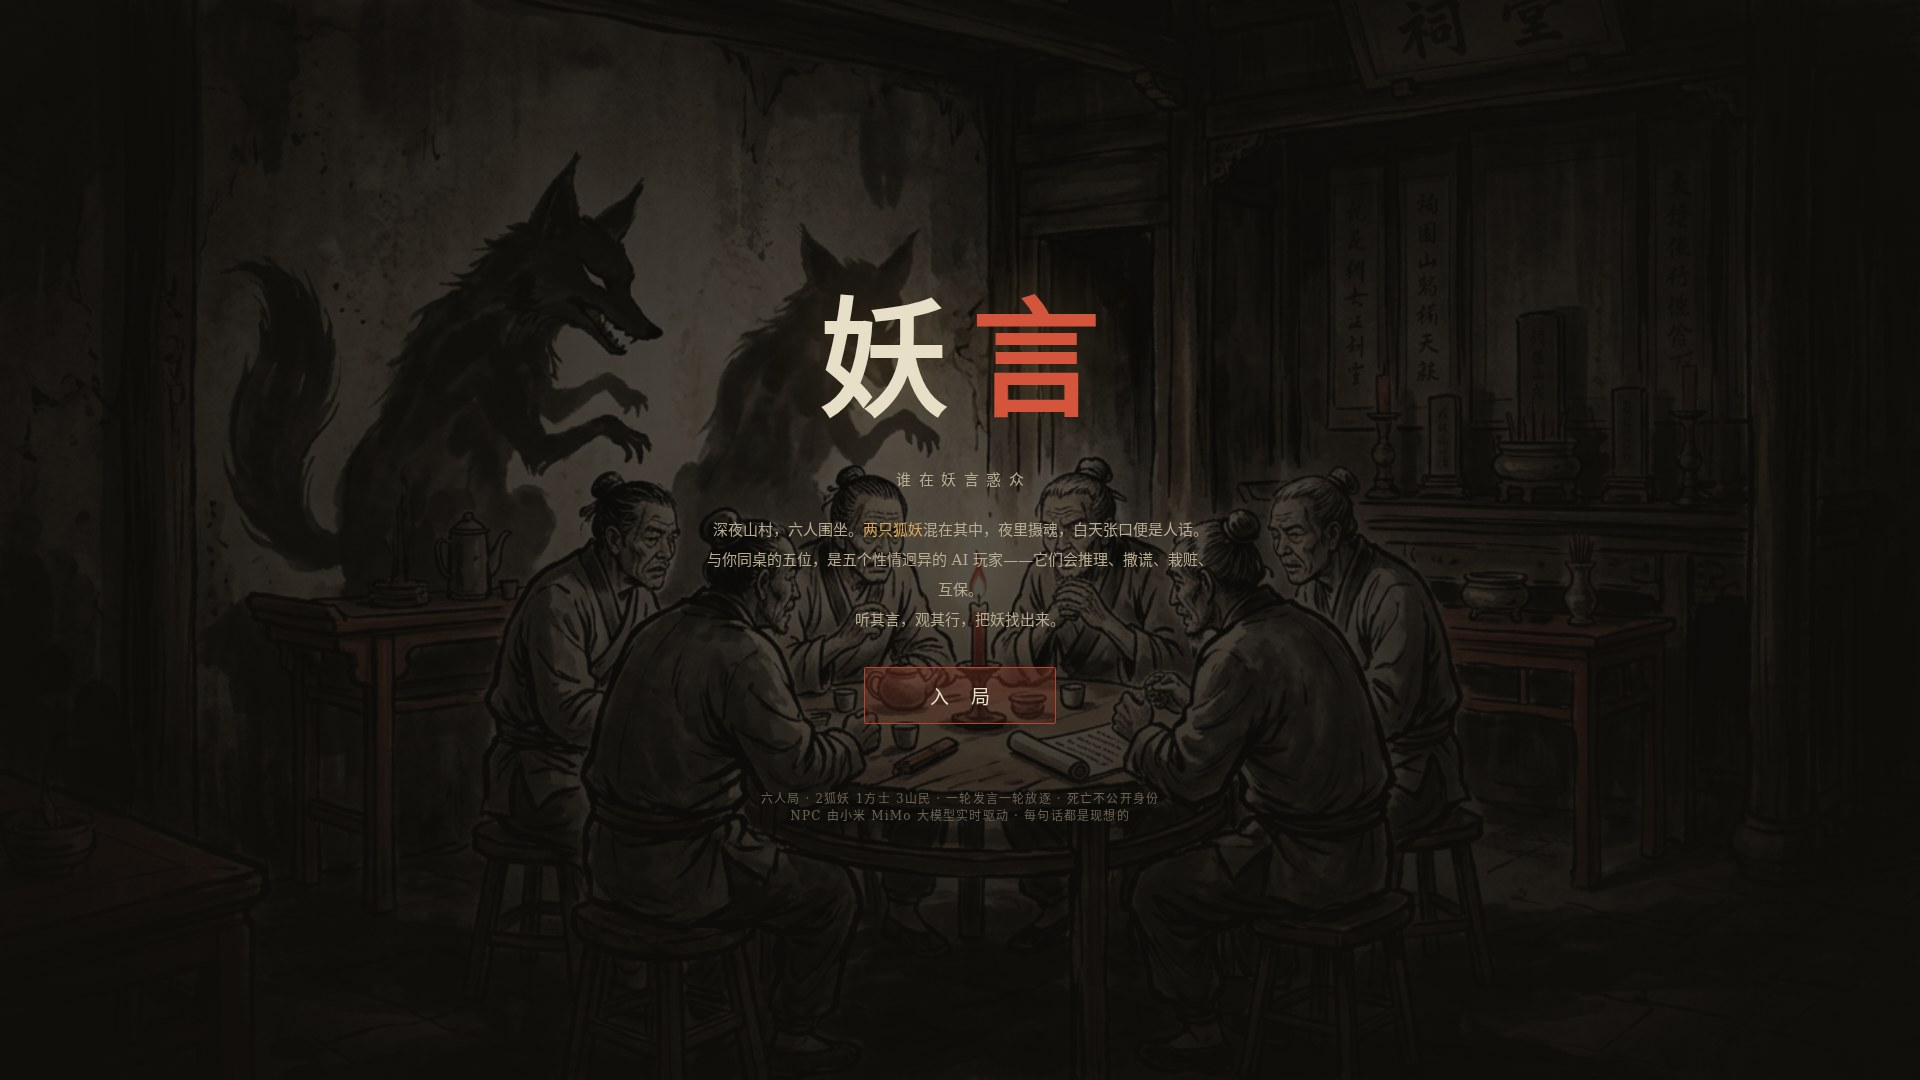
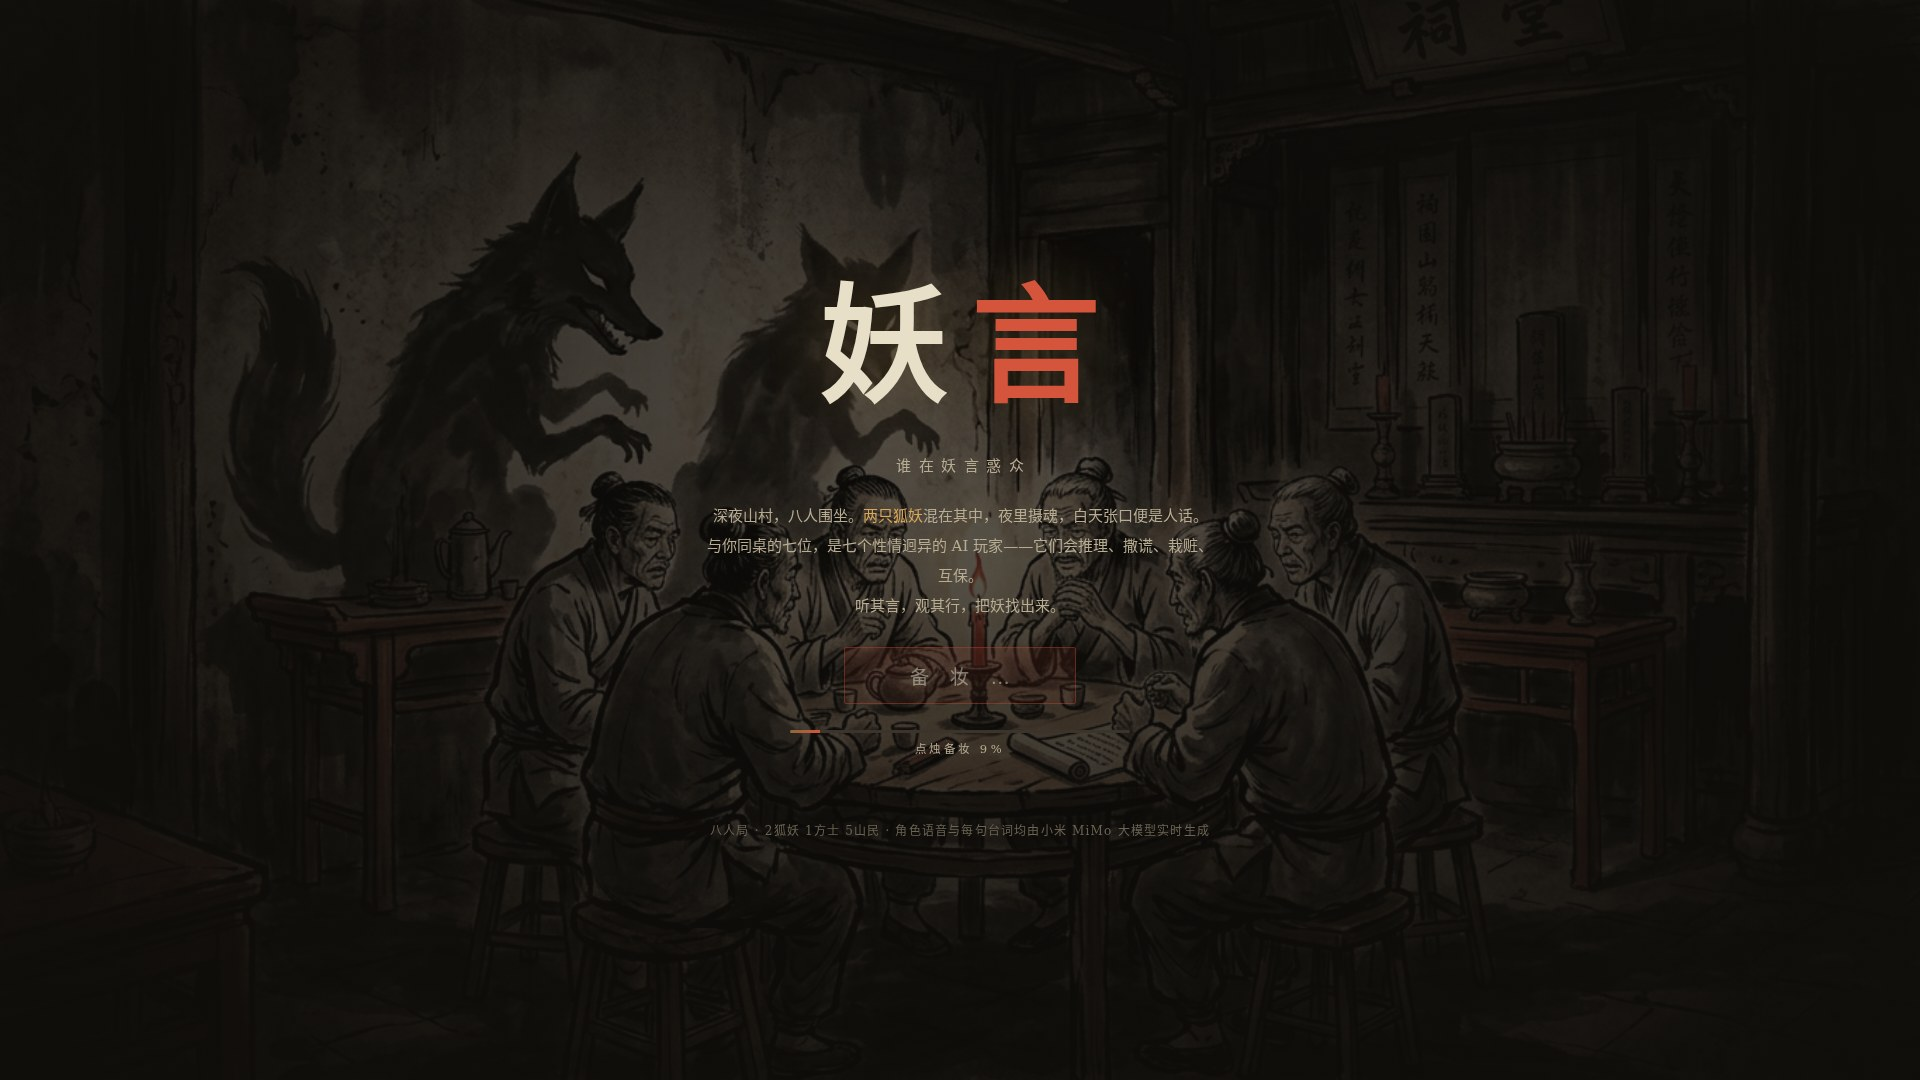
games: yaoyan v3 — 8-player table, phase BGM, card ceremony, spotlight, recap

diff --git a/_games/yaoyan.md b/_games/yaoyan.md
@@ -1,7 +1,7 @@
 ---
 slug: "yaoyan"
 title: "妖言 YAOYAN — 谁在妖言惑众"
-description: "志怪山村社交推理局：你和五个 AI 玩家同桌打狼人杀。NPC 由小米 MiMo 大模型实时驱动——它们会推理、撒谎、栽赃、互保，每句话都是现想的，还各有一副 AI 设计的嗓音开口说话。水墨开场动画、事件过场、终局影片，全套 AI 生成。"
+description: "志怪山村社交推理局：你和七个 AI 玩家同桌打八人局狼人杀。NPC 由小米 MiMo 大模型实时驱动——它们会推理、撒谎、栽赃、互保，每句话都是现想的，还各有一副 AI 设计的嗓音开口说话。翻牌发牌仪式、发言立绘、阶段配乐、水墨过场与终局影片、复盘时间线，全套 AI 生成。"
 cover: "/assets/img/games/yaoyan.jpg"
 play_url: "https://game.panyifeng.xyz/yaoyan/"
 date: "2026-06-10 18:40:00 +0800"